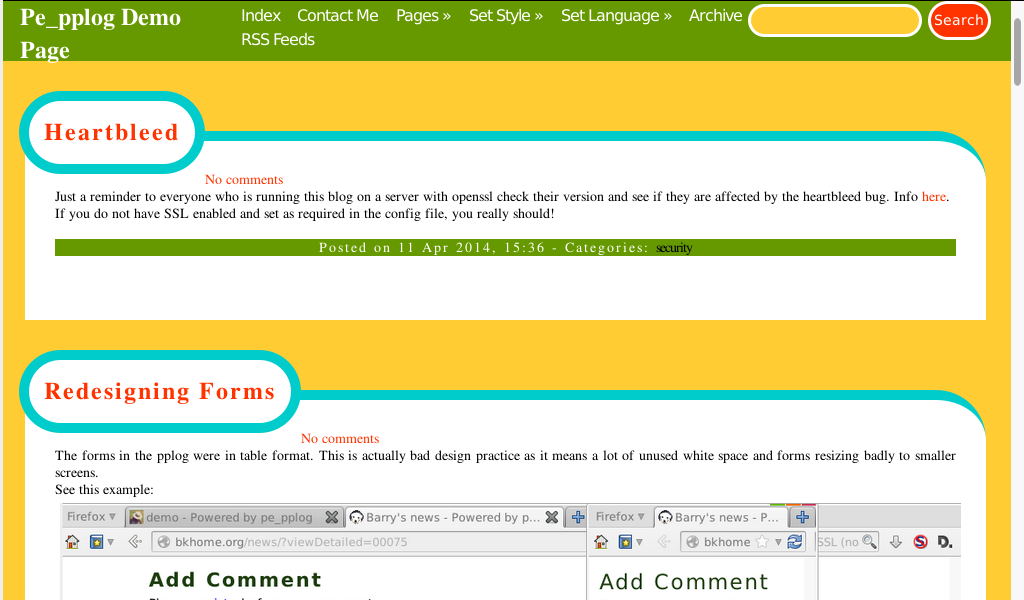
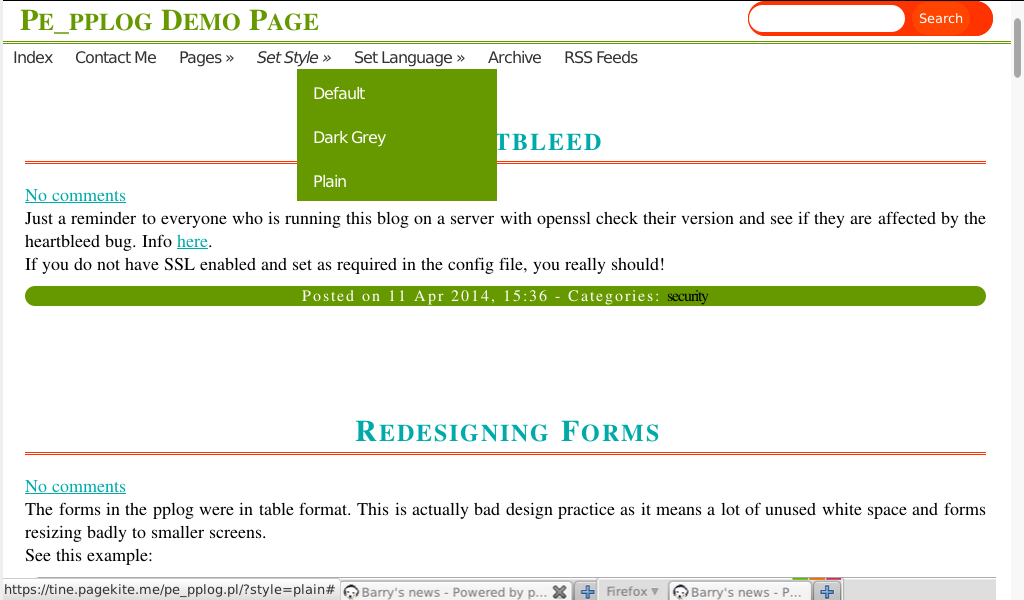
updated css, especially plain.css

diff --git a/css/plain.css b/css/plain.css
@@ -8,9 +8,8 @@
 
 body {	
 	font-family: serif, "Liberation Sans", "Century Gothic",  "Lucida Sans Unicode","Droid Sans" ,sans-serif;
-	font-size: 14px;
+	font-size: 18px;
 	color: #333333;
-	background-color: #FFCC33;
 	width: 100%;
 	 margin:0em;
 	
@@ -20,18 +19,15 @@ header {
 	width:100%;	
 	 height:60px;
 	margin:0em;
-	 background-color: #669900;
 }
 
 h1#header {
-	float:left;
-	color: white;
+	color: #669900;
 	margin:0em;
-	width:20%;
 	padding-left:2%;
-	padding-top:0em;
-	font-size: 24px;
+	font-size: 30px;
 	text-transform:capitalize;
+	font-variant:small-caps;
   
 }
 
@@ -39,34 +35,34 @@ div#header{
 	margin-left:0px;
 	margin-right:0px;
 	padding-top:0px;
-	float:right;
-	width:78%;	
+	
+	border-bottom:3px double #669900;
 }
 div#header a {
-	font-family: "sans-serif";
+	font-family: sans-serif;
 	text-transform: capitalize;
+	font-size:16px;
 	padding: 0px;
 	padding-top:0px;
-	font-size: 16px;
 	letter-spacing: -1px;
 	text-decoration:none;
-	color:white;
+	color:#333333;
 }
 
 
 #header ul.menu {margin:0px; margin-left:-5%; margin-right:25%;}
 #header .menu li {list-style:none; position:relative; float:left; padding:0px; padding-left:3%; padding-top:5px;}
-#header .drop a {display:block; color:orangered; padding:10px; }
-#header .drop li {float:none; background:white;}
+#header .drop a {display:block; padding:10px; color:white;}
+#header .drop li {float:none; background:#669900;}
 #header .drop{display:none; list-style:none;}
 #header .menu:hover ul{display:block; position:absolute; width:200px; }
 
 a#mobile
 {font-size:0px;float:right; background:green; color:white;}
 
-form#mobile{position:absolute; top:0px; left:74%; width:26%;}
-#mobile input{width:60%; border:3px solid white; background-color: #FFCC33; border-radius:30px; color:white;}
-#mobile input[type='submit']{width:24%;background-color: #FF3300;}
+form#mobile{position:absolute; top:0px; left:74%; width:24%; background-color: #FF3300; border-radius:30px; border:1px solid #FF3300;}
+#mobile input{width:60%; border:none; border-radius:30px; color:white;}
+#mobile input[type='submit']{width:24%; border:none;}
 
 .comment{display:none;}
 
@@ -80,68 +76,59 @@ div#content {
 }
 
 #content h1 {
-	font-size: 24px;
-	color:  #00CCCC;
-	background-color: white;
-	padding: 20px;
-	padding-bottom:5px;
-	letter-spacing: 2px;
-	margin-bottom:0px;
-	border-left:10px solid #FF3300;
-	border-top-left-radius:50px;
-}
-
-#content .article h1{
-	float:left;
-	border-radius:50px;
-	margin-top:-80px;
-	margin-left:-4%;
-	border:10px solid #00CCCC;
-	color: #FF3300;
 	text-transform: capitalize;	
-	background:white;
-	padding: 15px;
+	font-variant:small-caps;
+	font-size: 30px;
+	color:  #FF3300;
+	padding-left:5px;
+	margin-top:60px;
 	letter-spacing: 2px;
+	border-left:5px solid #00CCCC;
+	border-radius:50px;
 }
 
+#content .article h1 {
+	margin-right:auto;
+	margin-left:auto;
+	border:none;
+	border-radius:0px;
+	border-bottom:3px double #FF3300;	
+	text-align:center;
+}
+
+h1 a {text-decoration:none;}
 #content a, span[text] {
-	color: #FF3300;
-	text-decoration: none;
+	color: #00AAAA;
 	font-weight:none;
 	cursor: pointer;
 }
 
 legend {
-font-size: 24px;
+font-size: 30px;
 font-weight:bold;
+text-transform: capitalize;	
+font-variant:small-caps;
 font-family: serif;
 width:100%;
 padding-left: 10px;
-background-color: #FFCC33;
 margin:0px;
-color:#FF3300;
-border-bottom:5px solid #00CCCC;
-border-bottom-left-radius:50px;
+color:white;
+border-bottom:3px double white;
 }
 
-h2 {color: #FF3300; background-color: white; font-size: 24px; }
+h2 {color: #00CCCC; background-color: white; font-size: 24px; }
 
 span:hover::after {
 content:attr(text);
 position:absolute;
 padding:5px;
 width:20%;
-color:white;
-background-color:#FF3300;
 }
 
-.article, .full {width:auto; margin-left:auto; margin-right:auto; background-color: white; padding:30px;}
-.article { margin-top:70px; border-top:10px solid #00CCCC; border-top-right-radius:50px;}
 
-table, #content form{
-	font-size: 14px;
+#content form{
 	text-align: left;
-	background-color: white;
+	background-color: rgba(0,204,205,0.4);
 	padding: 0px;
 	font-family: sans-serif;
 }
@@ -159,7 +146,6 @@ max-width:200px;
 
 input, select, div.smilies {	
 	font-family: "Liberation Sans", "Century Gothic",  "Lucida Sans Unicode", "Droid Sans" ,sans-serif;
-	font-size: 14px;
 	width:30%;
 	max-width:250px;
 	padding: 7px;
@@ -176,7 +162,7 @@ input[type='button'], div.smilies {
 	margin-left:-10px;
  	max-width: 64px;
  	border-radius:100px;
- 	background-color: #FFCC33;
+ 	background-color: white;
  	border:0px;
 }
 
@@ -210,13 +196,14 @@ input:hover, button:hover {	background-color: orangered; color:black;}
 textarea, pre, input[type='text'], input[type='password']{
 	padding: 5px;
 	background-color: white; 
-	border: 3px solid #00CCCC;
+	border:none;
+	border-left: 3px solid #00CCCC;
+	border-right: 3px solid #00CCCC;
 	font-family: serif;
-	font-size: 14px;
 	border-radius:30px;
 }
 
-textarea, pre {padding: 10px; overflow:scroll; width:90%; border-radius:0px; border: 7px solid orangered;}
+textarea, pre {padding: 10px; overflow:scroll; width:90%; border-radius:0px; border: 3px double orangered;}
 textarea#content {height:300px; width:95%;}
 textarea#comContent { height:200px; max-width:95%;}
 
@@ -231,7 +218,7 @@ blockquote::before {
 
 blockquote
 { 	
-	font-size: 14px;
+	font-size: 18px;
 	font-family: serif;
 	border: 7px solid orangered;
 	color:black;
@@ -250,7 +237,7 @@ a#flip {color:#666666;font-weight:bold;}
 
 nav::before {
 	content:"Main Menu";
-	font-size: 24px;
+	font-size: 30px;
 	font-weight:bold;
 	color: #FF3300;
 	text-transform: capitalize;
@@ -266,7 +253,7 @@ nav  {
 	margin-left:0px;
 	margin-right:0px;
 	margin-top:50px;
-	border-top:40px solid #669900 ;
+	border-top:10px double #669900 ;
 }
 
 nav h1 {
@@ -274,7 +261,7 @@ nav h1 {
 	padding: 0px;
 	margin-top: 10px;
 	margin-bottom: 0px;
-	font-size: 16px;
+	font-size: 18px;
 }
 
 nav a {
@@ -286,11 +273,12 @@ nav a {
 	text-transform: capitalize;
 	text-decoration: none;
 	color: #333333;
-	font-family: "sans-serif";
+	font-family: sans-serif;
+	font-size: 14px;
 }
 
 a:hover {font-style:italic;}
-.thumb:hover { border-width: 1px; border-color:white; border-style:outset;}
+.thumb:hover { background-color: white; border-width: 1px; border-color:white; border-style:outset;}
 .thumb {height:80px;}
 
 input[type='image']{border:0px; width:auto;}
@@ -304,9 +292,9 @@ input:focus + .box *{opacity:1;}
 	left:0px;
 	height:0%;
     position: fixed;
-    background: rgba(0,0,0,0.5);
+    background: rgba(255,255,255,0.8);
     text-align:center;
-    color:white;
+    color:#333333;
     font-size:0px;
 }
 .box img, .box p {padding:10px;}
@@ -326,17 +314,16 @@ input:focus + .box *{opacity:1;}
 		}
 		
 
-
-
-
-#content img {padding: 5px; max-width:100%;}
+#content img {padding: 10px; max-width:100%;}
 
 #footer, footer{
+	font-size:16px;
 	text-align: center;
 	color: white;
-	margin-top:0px;
+	margin-top:10px;
 	letter-spacing: 2px;
 	 background-color: #669900;
+	 border-radius:50px;
 }
 
 #footer a {
@@ -344,14 +331,3 @@ input:focus + .box *{opacity:1;}
 	text-decoration: none;
 	letter-spacing: -1px;
 }
-
-@media print {
-header, nav, img, form, iframe
-{
-display:none;
-}
-
-div#content{width:100%;}
-div#content a, div#content h1 {color:black;}
-}
-

diff --git a/css/darkgrey.css b/css/darkgrey.css
@@ -217,8 +217,7 @@ blockquote
 }
 
 nav  {
- 	float:left;
-	padding:5px;
+ 	padding:5px;
 	width: 20%;
 	letter-spacing: -1px;
 }
@@ -277,7 +276,7 @@ input:focus + .box *{opacity:1;}
 			max-height:80%;
 		}
 #footer, footer{
-float:left;
+
  width:20%;
  padding:5px; 
  background-color:rgba(204,204,204,0.3);
@@ -292,7 +291,6 @@ float:left;
 	
 	text-align: center;
 	padding-top: 0.8em;
-	float:none;
 	width:100%;
 	
 }
